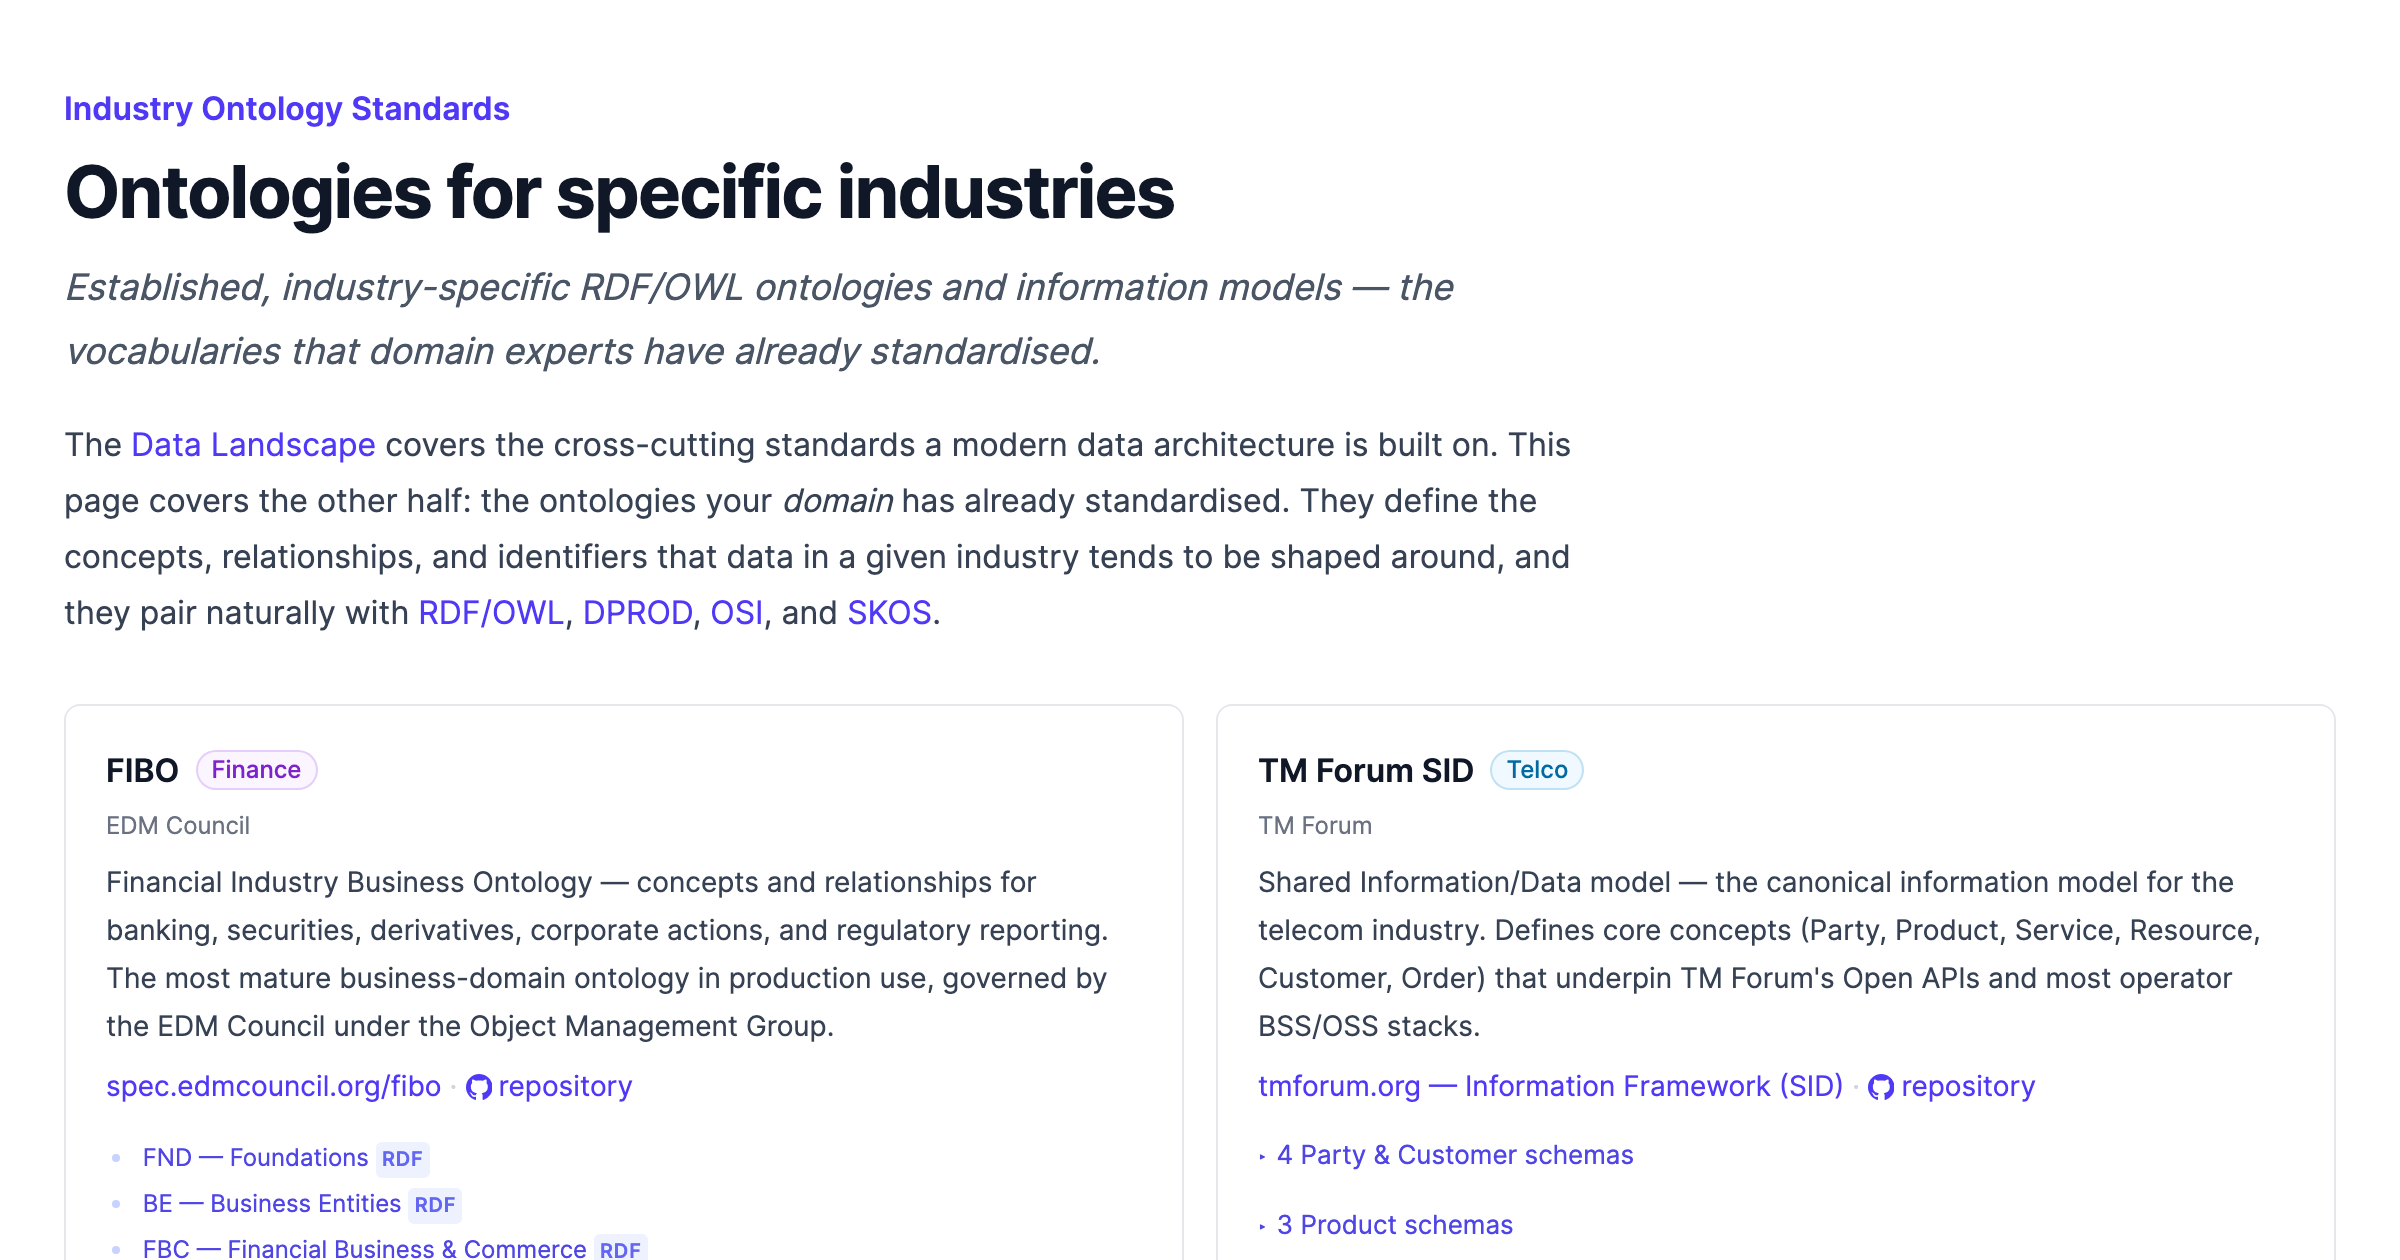
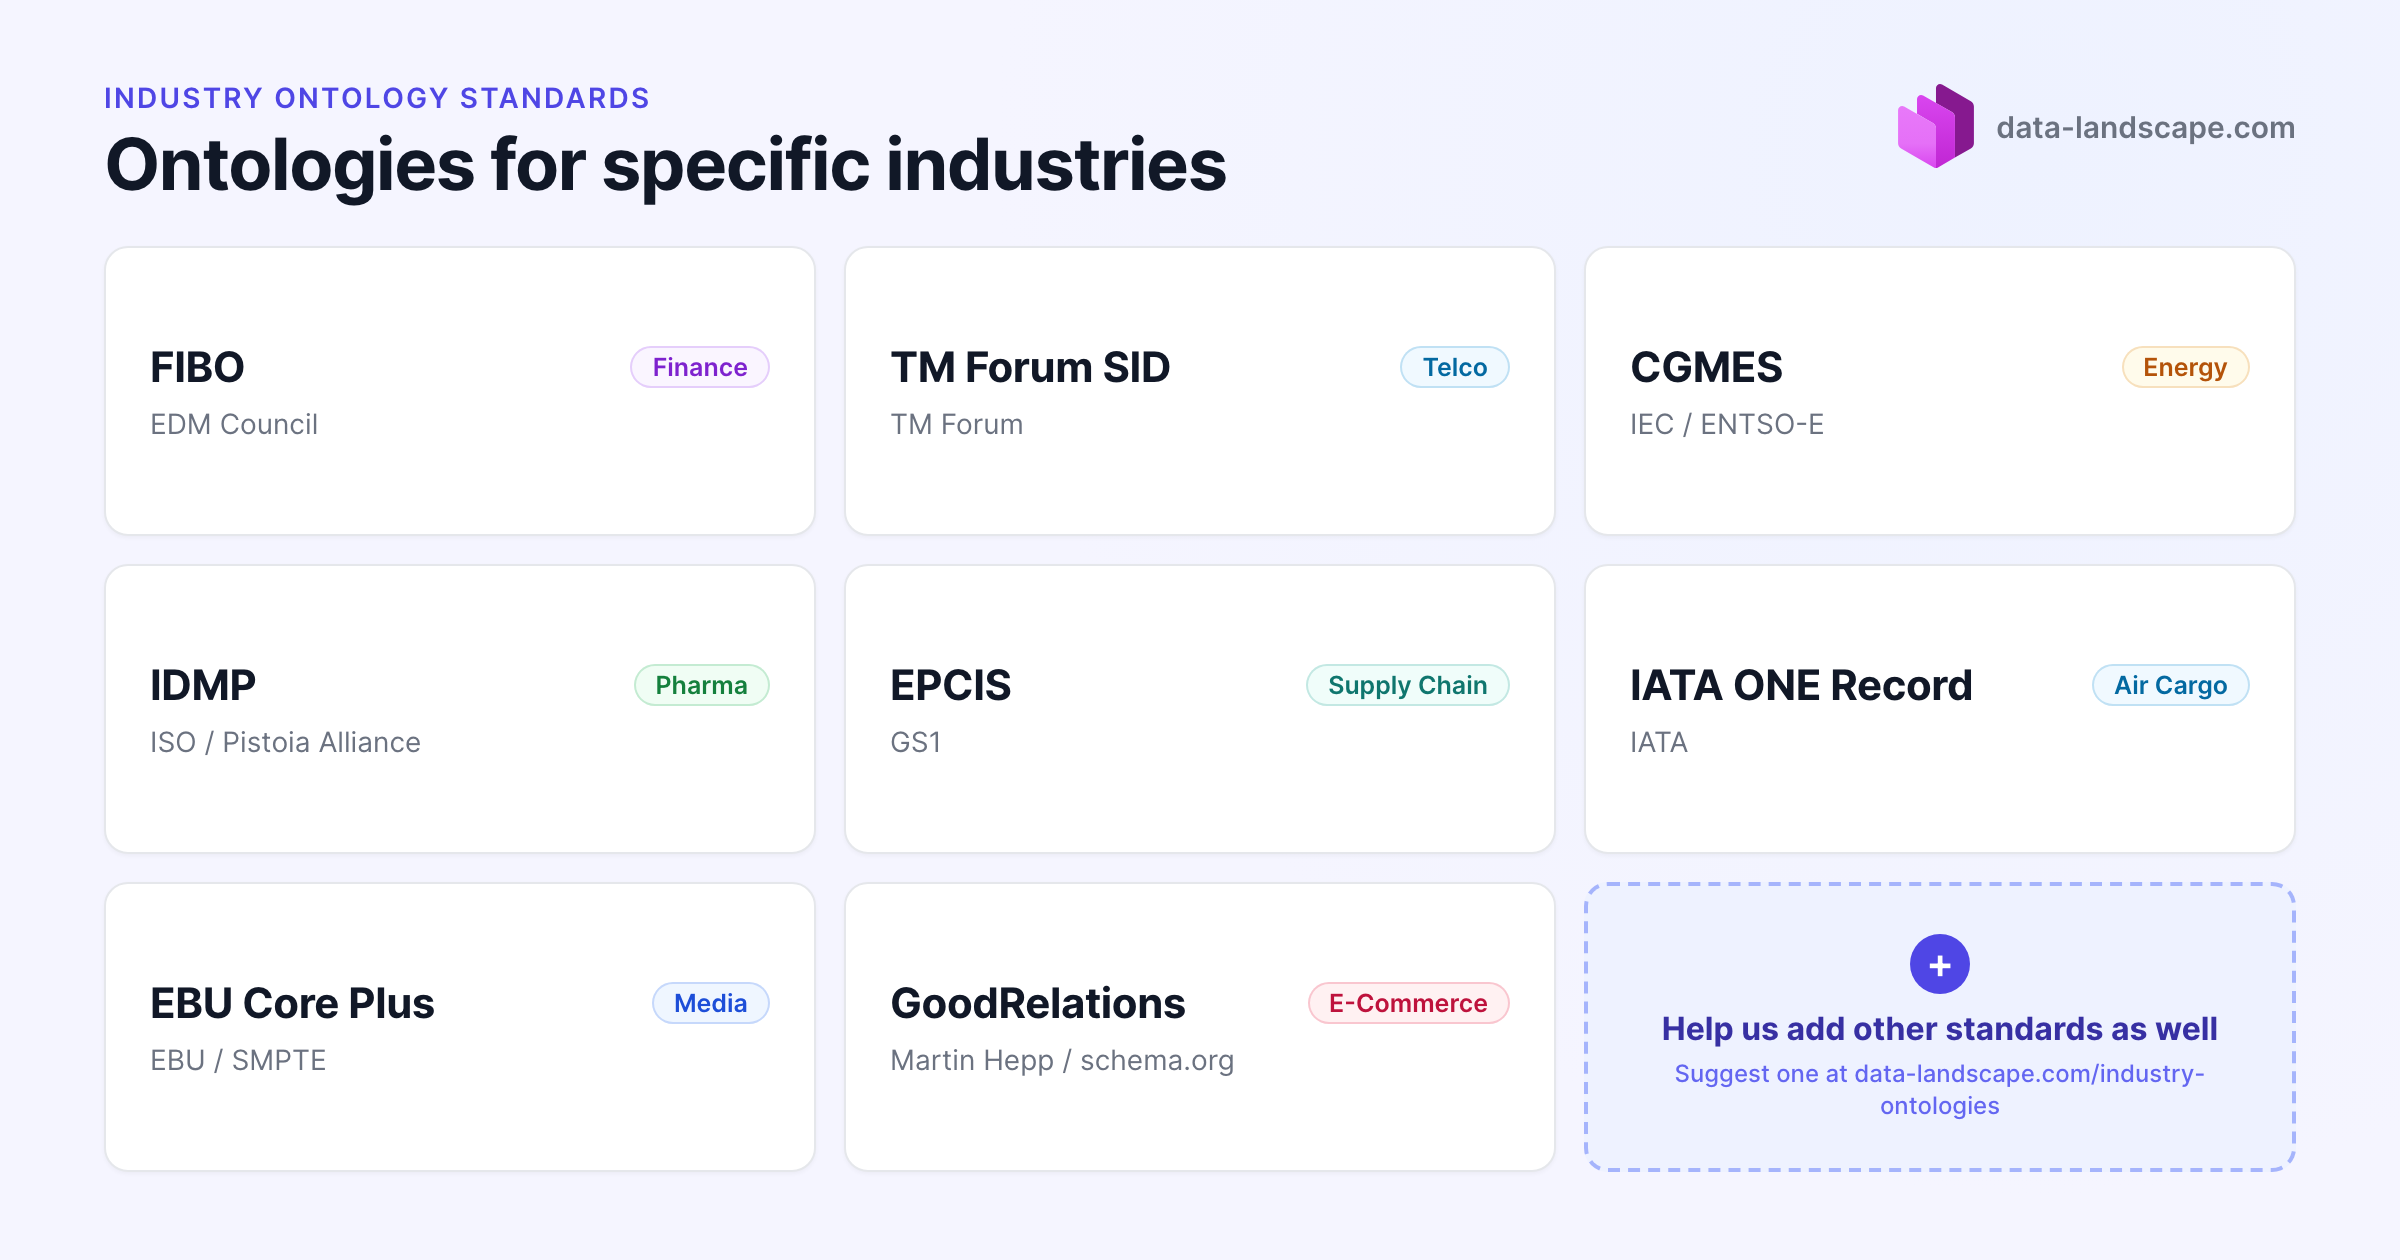
Redesign industry-ontologies social card as tile grid; trim intro

diff --git a/industry-ontologies.html b/industry-ontologies.html
@@ -154,7 +154,7 @@
       Established, industry-specific RDF/OWL ontologies and information models — the vocabularies that domain experts have already standardised.
     </p>
     <p class="mt-4 max-w-3xl text-base leading-7 text-gray-700">
-      The <a href="/" class="text-indigo-600 hover:text-indigo-500">Data Landscape</a> covers the cross-cutting standards a modern data architecture is built on. This page covers the other half: the ontologies your <em>domain</em> has already standardised. They define the concepts, relationships, and identifiers that data in a given industry tends to be shaped around, and they pair naturally with <a href="/?std=rdf-owl" class="text-indigo-600 hover:text-indigo-500">RDF/OWL</a>, <a href="/?std=dprod" class="text-indigo-600 hover:text-indigo-500">DPROD</a>, <a href="/?std=osi" class="text-indigo-600 hover:text-indigo-500">OSI</a>, and <a href="/?std=skos" class="text-indigo-600 hover:text-indigo-500">SKOS</a>.
+      The <a href="/" class="text-indigo-600 hover:text-indigo-500">Data Landscape</a> covers the cross-cutting standards a modern data architecture is built on. This page covers the other half: the ontologies your <em>domain</em> has already standardised. They define the concepts, relationships, and identifiers that data in a given industry tends to be shaped around.
     </p>
   </div>
 

diff --git a/scripts/generate-industry-ontologies-preview.py b/scripts/generate-industry-ontologies-preview.py
@@ -5,21 +5,22 @@
 #   "playwright>=1.50",
 # ]
 # ///
-"""Generate media/social/industry-ontologies.png from the rendered subpage.
+"""Generate media/social/industry-ontologies.png — the og:image card.
 
 Run standalone with uv (no pre-install needed):
 
-    ./scripts/generate-industry-ontologies-preview.py [BASE_URL]
+    ./scripts/generate-industry-ontologies-preview.py
     # or:
-    uv run scripts/generate-industry-ontologies-preview.py [BASE_URL]
+    uv run scripts/generate-industry-ontologies-preview.py
 
-BASE_URL defaults to http://127.0.0.1:8000/. In CI we serve the repo with
-`python -m http.server 8000` and point the script at that, so the og:image
-reflects exactly the version about to be deployed.
+A BASE_URL arg is accepted for CI compatibility but ignored: the card is a
+purpose-built 1200x630 layout rendered from a self-contained template (not a
+screenshot of the live page, which produced tiny, blurry text). It mirrors
+the page's own card/badge styling and uses the repo's Inter webfont, loaded
+via file:// so no server is needed.
 
-The industry-ontologies page has no PDF (unlike the main landscape), so the
-preview is a 1200x630 viewport screenshot of the page header/intro — the
-standard og:image size for summary_large_image cards.
+The tile grid lists every ontology on the page plus a CTA tile asking the
+community to suggest more — keep ONTOLOGIES in sync with industry-ontologies.html.
 
 The script bootstraps a Chromium build via `playwright install chromium`
 on first run, so it works on a fresh machine with no manual setup.
@@ -28,18 +29,147 @@ import argparse
 import asyncio
 import subprocess
 import sys
+import tempfile
 from pathlib import Path
 
 from playwright.async_api import async_playwright, Error as PlaywrightError
 
 ROOT = Path(__file__).resolve().parent.parent
 OUT_PATH = ROOT / "media" / "social" / "industry-ontologies.png"
-DEFAULT_URL = "http://127.0.0.1:8000/"
-PAGE = "industry-ontologies.html"
+FONTS = ROOT / "fonts"
+LOGO = ROOT / "media" / "logo_fuchsia_v2.svg"
 
-# Standard og:image dimensions for a summary_large_image card.
+# Standard og:image dimensions for a summary_large_image card. Rendered at
+# 2x device scale so the output is crisp on retina/social-card displays.
 WIDTH = 1200
 HEIGHT = 630
+
+# Name, domain badge label, badge palette key, issuer. Mirror of the
+# .ont-card list in industry-ontologies.html — keep in sync.
+ONTOLOGIES = [
+    ("FIBO",            "Finance",      "finance",  "EDM Council"),
+    ("TM Forum SID",    "Telco",        "telco",    "TM Forum"),
+    ("CGMES",           "Energy",       "energy",   "IEC / ENTSO-E"),
+    ("IDMP",            "Pharma",       "pharma",   "ISO / Pistoia Alliance"),
+    ("EPCIS",           "Supply Chain", "supply",   "GS1"),
+    ("IATA ONE Record", "Air Cargo",    "aircargo", "IATA"),
+    ("EBU Core Plus",   "Media",        "media",    "EBU / SMPTE"),
+    ("GoodRelations",   "E-Commerce",   "commerce", "Martin Hepp / schema.org"),
+]
+
+# Copied verbatim from the .badge-* rules in industry-ontologies.html.
+BADGES = {
+    "finance":  ("#faf5ff", "#7e22ce", "rgba(147, 51, 234, 0.2)"),
+    "telco":    ("#f0f9ff", "#0369a1", "rgba(2, 132, 199, 0.2)"),
+    "energy":   ("#fffbeb", "#b45309", "rgba(217, 119, 6, 0.2)"),
+    "pharma":   ("#f0fdf4", "#15803d", "rgba(22, 163, 74, 0.2)"),
+    "supply":   ("#f0fdfa", "#0f766e", "rgba(13, 148, 136, 0.2)"),
+    "aircargo": ("#f0f9ff", "#0369a1", "rgba(2, 132, 199, 0.2)"),
+    "media":    ("#eff6ff", "#1d4ed8", "rgba(37, 99, 235, 0.2)"),
+    "commerce": ("#fff1f2", "#be123c", "rgba(225, 29, 72, 0.2)"),
+}
+
+
+def font_face(weight: int, style_name: str) -> str:
+    woff2 = (FONTS / f"inter-v12-latin-{style_name}.woff2").as_uri()
+    return (
+        "@font-face{font-family:'Inter';font-style:normal;"
+        f"font-weight:{weight};font-display:block;"
+        f"src:url('{woff2}') format('woff2');}}"
+    )
+
+
+def build_html() -> str:
+    badge_css = "\n".join(
+        f".badge-{k}{{background:{bg};color:{fg};box-shadow:inset 0 0 0 1px {ring};}}"
+        for k, (bg, fg, ring) in BADGES.items()
+    )
+
+    tiles = ""
+    for name, label, key, issuer in ONTOLOGIES:
+        tiles += f"""
+      <div class="card">
+        <div class="card-top">
+          <span class="ont-name">{name}</span>
+          <span class="badge badge-{key}">{label}</span>
+        </div>
+        <p class="issuer">{issuer}</p>
+      </div>"""
+
+    # CTA tile — completes the 3x3 grid (8 ontologies + 1 CTA).
+    tiles += """
+      <div class="card cta">
+        <div class="cta-plus">+</div>
+        <p class="cta-title">Help us add other standards as well</p>
+        <p class="cta-sub">Suggest one at data-landscape.com/industry-ontologies</p>
+      </div>"""
+
+    logo_svg = LOGO.read_text()
+
+    return f"""<!doctype html><html><head><meta charset="utf-8"><style>
+{font_face(400, "regular")}
+{font_face(500, "500")}
+{font_face(600, "600")}
+{font_face(700, "700")}
+*{{margin:0;padding:0;box-sizing:border-box;}}
+html,body{{width:{WIDTH}px;height:{HEIGHT}px;}}
+body{{
+  font-family:'Inter',system-ui,sans-serif;
+  background:#f5f5ff;
+  background-image:radial-gradient(circle at 85% 12%,#eef2ff 0%,#f5f5ff 45%);
+  padding:40px 52px 44px;
+  display:flex;flex-direction:column;
+  -webkit-font-smoothing:antialiased;
+}}
+.header{{display:flex;align-items:flex-start;justify-content:space-between;margin-bottom:20px;}}
+.eyebrow{{
+  font-size:14px;font-weight:600;letter-spacing:.08em;text-transform:uppercase;
+  color:#4f46e5;margin-bottom:6px;
+}}
+.title{{font-size:36px;font-weight:700;color:#111827;letter-spacing:-.02em;line-height:1.1;}}
+.brand{{display:flex;align-items:center;gap:11px;padding-top:2px;}}
+.brand svg{{width:38px;height:42px;}}
+.brand .wm{{font-size:15px;font-weight:600;color:#6b7280;}}
+.grid{{
+  flex:1;min-height:0;display:grid;
+  grid-template-columns:repeat(3,1fr);
+  grid-template-rows:repeat(3,1fr);
+  gap:14px;
+}}
+.card{{
+  background:#fff;border:1px solid #e5e7eb;border-radius:12px;
+  padding:0 22px;display:flex;flex-direction:column;justify-content:center;
+  box-shadow:0 1px 2px 0 rgba(0,0,0,.04);overflow:hidden;
+}}
+.card-top{{display:flex;align-items:center;justify-content:space-between;gap:10px;margin-bottom:7px;}}
+.ont-name{{font-size:21px;font-weight:700;color:#111827;letter-spacing:-.01em;}}
+.issuer{{font-size:14px;color:#6b7280;}}
+.badge{{
+  display:inline-flex;align-items:center;border-radius:9999px;
+  padding:3px 11px;font-size:12.5px;font-weight:600;white-space:nowrap;
+}}
+{badge_css}
+.cta{{
+  background:#eef2ff;border:2px dashed #a5b4fc;box-shadow:none;
+  align-items:center;text-align:center;gap:5px;padding:0 16px;
+}}
+.cta-plus{{
+  width:30px;height:30px;border-radius:9999px;background:#4f46e5;color:#fff;
+  font-size:21px;font-weight:600;line-height:30px;margin-bottom:3px;
+}}
+.cta-title{{font-size:16px;font-weight:700;color:#3730a3;line-height:1.2;}}
+.cta-sub{{font-size:12px;font-weight:500;color:#6366f1;line-height:1.3;}}
+</style></head><body>
+  <div class="header">
+    <div>
+      <div class="eyebrow">Industry Ontology Standards</div>
+      <div class="title">Ontologies for specific industries</div>
+    </div>
+    <div class="brand">{logo_svg}<span class="wm">data-landscape.com</span></div>
+  </div>
+  <div class="grid">{tiles}
+  </div>
+</body></html>"""
 
 
 def ensure_chromium() -> None:
@@ -51,48 +181,57 @@ def ensure_chromium() -> None:
     )
 
 
-async def render(base_url: str) -> Path:
-    url = base_url.rstrip("/") + "/" + PAGE
-    async with async_playwright() as p:
-        try:
-            browser = await p.chromium.launch()
-        except PlaywrightError as e:
-            if "Executable doesn't exist" not in str(e):
-                raise
-            ensure_chromium()
-            browser = await p.chromium.launch()
+async def render() -> Path:
+    html = build_html()
+    with tempfile.NamedTemporaryFile(
+        "w", suffix=".html", dir=ROOT, delete=False, encoding="utf-8"
+    ) as fh:
+        tmp = Path(fh.name)
+        fh.write(html)
 
-        # Use a 2x device scale for a crisp preview, then the clip below keeps
-        # the output at exactly 1200x630.
-        context = await browser.new_context(
-            viewport={"width": WIDTH, "height": HEIGHT},
-            device_scale_factor=2,
-        )
-        page = await context.new_page()
-        await page.goto(url, wait_until="networkidle")
-        await page.wait_for_timeout(300)
+    try:
+        async with async_playwright() as p:
+            try:
+                browser = await p.chromium.launch()
+            except PlaywrightError as e:
+                if "Executable doesn't exist" not in str(e):
+                    raise
+                ensure_chromium()
+                browser = await p.chromium.launch()
 
-        OUT_PATH.parent.mkdir(parents=True, exist_ok=True)
-        await page.screenshot(
-            path=str(OUT_PATH),
-            clip={"x": 0, "y": 0, "width": WIDTH, "height": HEIGHT},
-        )
-        await browser.close()
-        return OUT_PATH
+            context = await browser.new_context(
+                viewport={"width": WIDTH, "height": HEIGHT},
+                device_scale_factor=2,
+            )
+            page = await context.new_page()
+            await page.goto(tmp.as_uri(), wait_until="networkidle")
+            await page.evaluate("document.fonts.ready")
+            await page.wait_for_timeout(200)
+
+            OUT_PATH.parent.mkdir(parents=True, exist_ok=True)
+            await page.screenshot(
+                path=str(OUT_PATH),
+                clip={"x": 0, "y": 0, "width": WIDTH, "height": HEIGHT},
+            )
+            await browser.close()
+    finally:
+        tmp.unlink(missing_ok=True)
+    return OUT_PATH
 
 
 def main() -> int:
     parser = argparse.ArgumentParser(
-        description="Generate the industry-ontologies social preview image."
+        description="Generate the industry-ontologies social preview card."
     )
-    parser.add_argument("base_url", nargs="?", default=DEFAULT_URL,
-                        help=f"Base URL to render (default: {DEFAULT_URL})")
-    args = parser.parse_args()
+    # Accepted for CI parity with the other generators; the card is template
+    # driven and does not read the served site.
+    parser.add_argument("base_url", nargs="?", default=None,
+                        help="Ignored (kept for CI invocation parity).")
+    parser.parse_args()
 
-    out_path = asyncio.run(render(args.base_url))
+    out_path = asyncio.run(render())
     size = out_path.stat().st_size
-    print(f"Wrote {out_path.relative_to(ROOT)} ({size:,} bytes, {WIDTH}x{HEIGHT}) "
-          f"from {args.base_url}")
+    print(f"Wrote {out_path.relative_to(ROOT)} ({size:,} bytes, {WIDTH}x{HEIGHT}@2x)")
     return 0
 
 